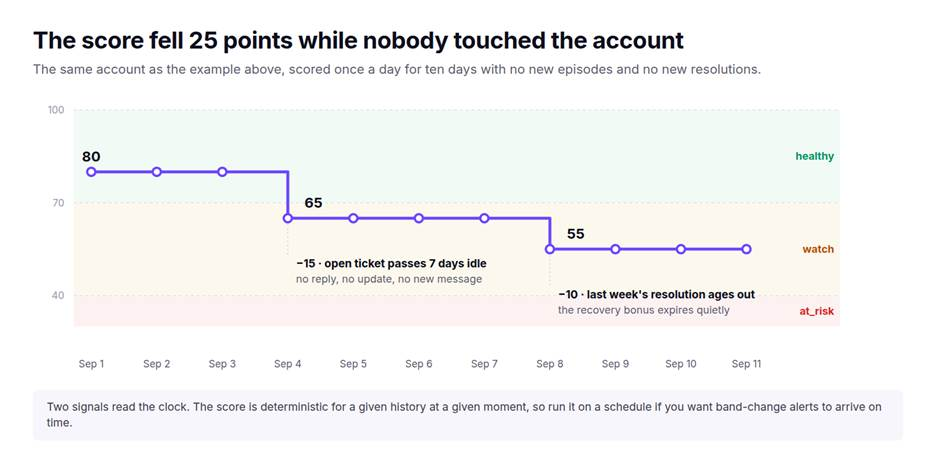
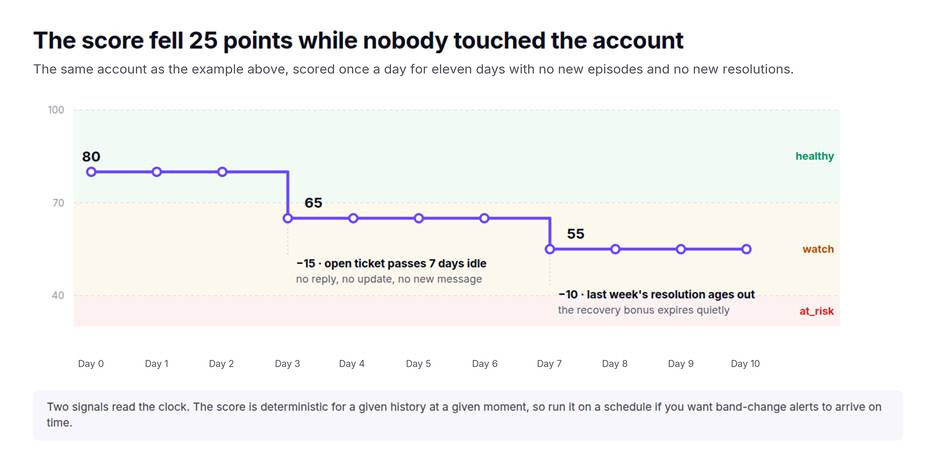
content(blog): address PR review on the Mem0 and health score posts
Health score post:
- relabel the daily-score chart's x-axis from calendar dates to Day 0..Day 10,
  so the two drops land on Day 3 and Day 7 as the prose describes, and correct
  its subtitle from "ten days" to "eleven days" to match the eleven data points
- add a 1200x630 og.png and the frontmatter image: line; without it
  BlogPostPage fell back to DEFAULT_OG_IMAGE and shares showed the site card
- the repeated-issue rule divides keyword overlap by the smaller of the two
  keyword sets (health.py:371), not by the open session's set

Mem0 alternatives post:
- carry the retrieval-budget asymmetry inside the benchmark chart as a fifth
  chip, since the chart travels as a screenshot without the paragraph below it
  (canvas 422 -> 456px, img height and alt updated)
- name the four open-core projects in the self-hosting chart's subtitle instead
  of "4 of the 6", which read against the table's seven visible rows
- align the Letta sentence with the chart: it keeps only cloud-hosted agent
  memory as a paid service
- the docs describe a manual bulk migration, not a shipped import tool; reword
  in the post and in POST_FAQ so the two stay identical

diff --git a/src/lib/blog-schema.ts b/src/lib/blog-schema.ts
@@ -388,7 +388,7 @@ export const POST_FAQ: Readonly<Record<string, readonly FaqEntry[]>> = {
     {
       question: 'Can I migrate from Mem0 to Statewave without rewriting my agent?',
       answer:
-        "Mostly, yes. Mem0's user_id becomes a Statewave subject_id, add becomes an episode write, and search becomes a context request. Statewave's docs include a bulk import path that keeps the original Mem0 memory IDs, so you can trace each memory back to where it came from.",
+        "Mostly, yes. Mem0's user_id becomes a Statewave subject_id, add becomes an episode write, and search becomes a context request. Statewave's docs describe a bulk migration that carries each original Mem0 memory ID in the episode's provenance, so you can trace each memory back to where it came from.",
     },
     {
       question: 'Are LoCoMo and LongMemEval scores comparable across vendors?',
